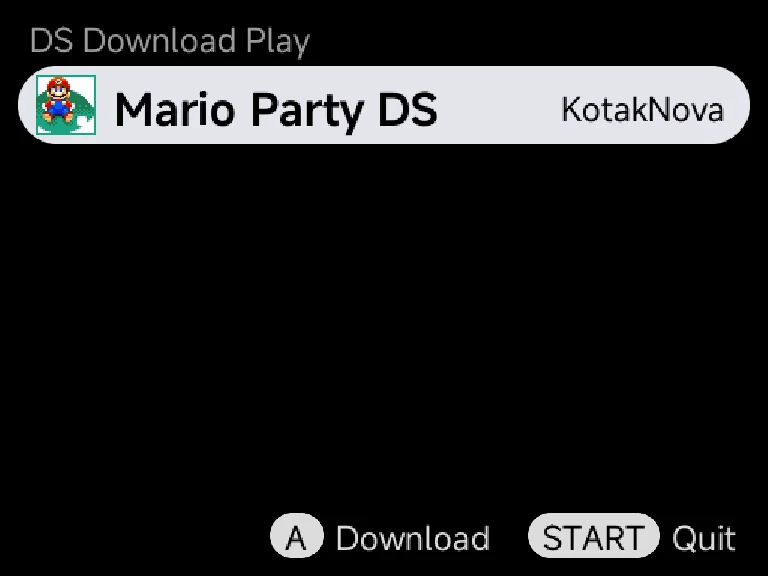
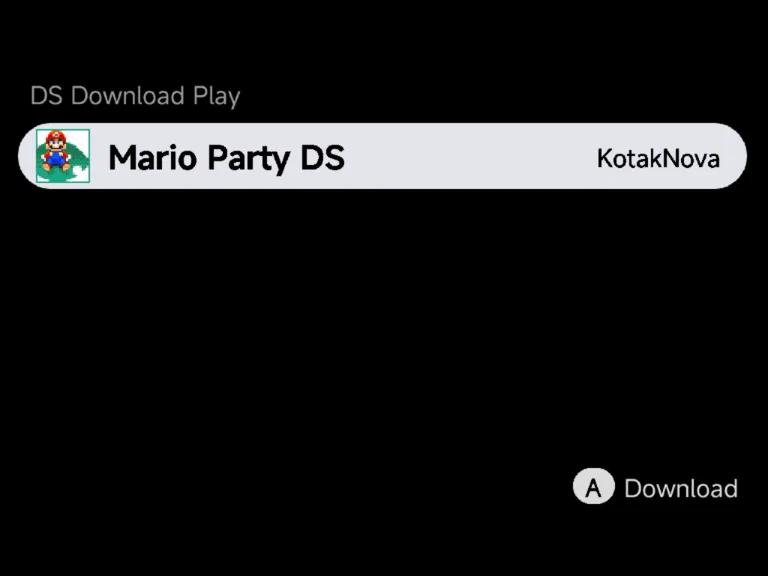
Download Play: both clients on one screen, left from the in-game menu
New screenshots of both clients listing a game. Picking takes A (the touch
screen is hidden while the client shows), and START no longer quits.

Changed region(s): [[0.0, 0.0312, 1.0, 0.3438], [0.6875, 0.8125, 0.9688, 0.9688], [0.3438, 0.875, 0.6562, 0.9688]]

diff --git a/docs/mobile/local-wireless.md b/docs/mobile/local-wireless.md
@@ -139,14 +139,13 @@ Some DS games play together from one copy: the host runs the game, and
 each guest downloads it from the host, with no copy of their own. Mario
 Party DS plays together only this way.
 
-![DS Download Play listing a nearby game: Mario Party DS hosted by KotakNova, with the A Download and START Quit hints](../assets/screenshots/mobile/ds-download-play-client.webp){ .nx-wide }
+![DS Download Play listing a nearby game: Mario Party DS hosted by KotakNova, with the A Download hint](../assets/screenshots/mobile/ds-download-play-client.webp){ .nx-wide }
 
 1. On the host's phone, start the game and pick its DS Download Play mode
    (in Mario Party DS, **Multiplayer**).
 2. On each guest's phone, open the **Nintendo DS** console and start
    **DS Download Play**, its first row. It lists the games hosted nearby.
-3. Tap the host's game, or pick it and press `A`. It downloads, then
-   starts.
+3. Pick the host's game and press `A`. It downloads, then starts.
 
 Nothing of the player's is needed: no game, no BIOS, no firmware.
 **DS Download Play** is always in the Nintendo DS list, and a library with
@@ -167,7 +166,8 @@ no DS games gets a **Nintendo DS** console with just that row.
     - DS Download Play has no save states, resume point or achievements,
       and makes no Recents entry. Its in-game menu has no **Save** or
       **Load**.
-    - `START` in the list closes it, as **Quit** does.
+    - It shows the top screen alone until the game starts, then your
+      layout. Leave it with **Quit** in the in-game menu.
 
 ## 3DS Download Play
 
@@ -175,7 +175,7 @@ no DS games gets a **Nintendo DS** console with just that row.
 game join from one copy: the host plays the full game, and each guest
 receives a smaller version of it for the session.
 
-![3DS Download Play looking for games: Looking for games nearby, Ask the other player to start local multiplayer in their game, and the START Quit hint](../assets/screenshots/mobile/3ds-download-play-client.webp){ .nx-wide }
+![3DS Download Play listing a nearby game: Mario Kart 7, 25 MB, with the A Download hint](../assets/screenshots/mobile/3ds-download-play-client.webp){ .nx-wide }
 
 1. On the host's phone, start the game and go to its local multiplayer
    (in Mario Kart 7, **Local Multiplayer**).
@@ -206,7 +206,8 @@ with no 3DS games gets a **Nintendo 3DS** console with just that row.
       Game Settings apply to the downloaded game, except the graphics, 3D resolution, layout and controls, which
       come from **3DS Download Play**'s own Game Settings.
     - No save states, resume point or achievements, and no Recents entry.
-    - `START` in the list closes it, as **Quit** does.
+    - It shows the top screen alone until the game starts, then your
+      layout. Leave it with **Quit** in the in-game menu.
     - It is our own app in place of the 3DS's Download Play, so a guest
       needs no files from a 3DS. Its downloads are kept for this phone only.
 
